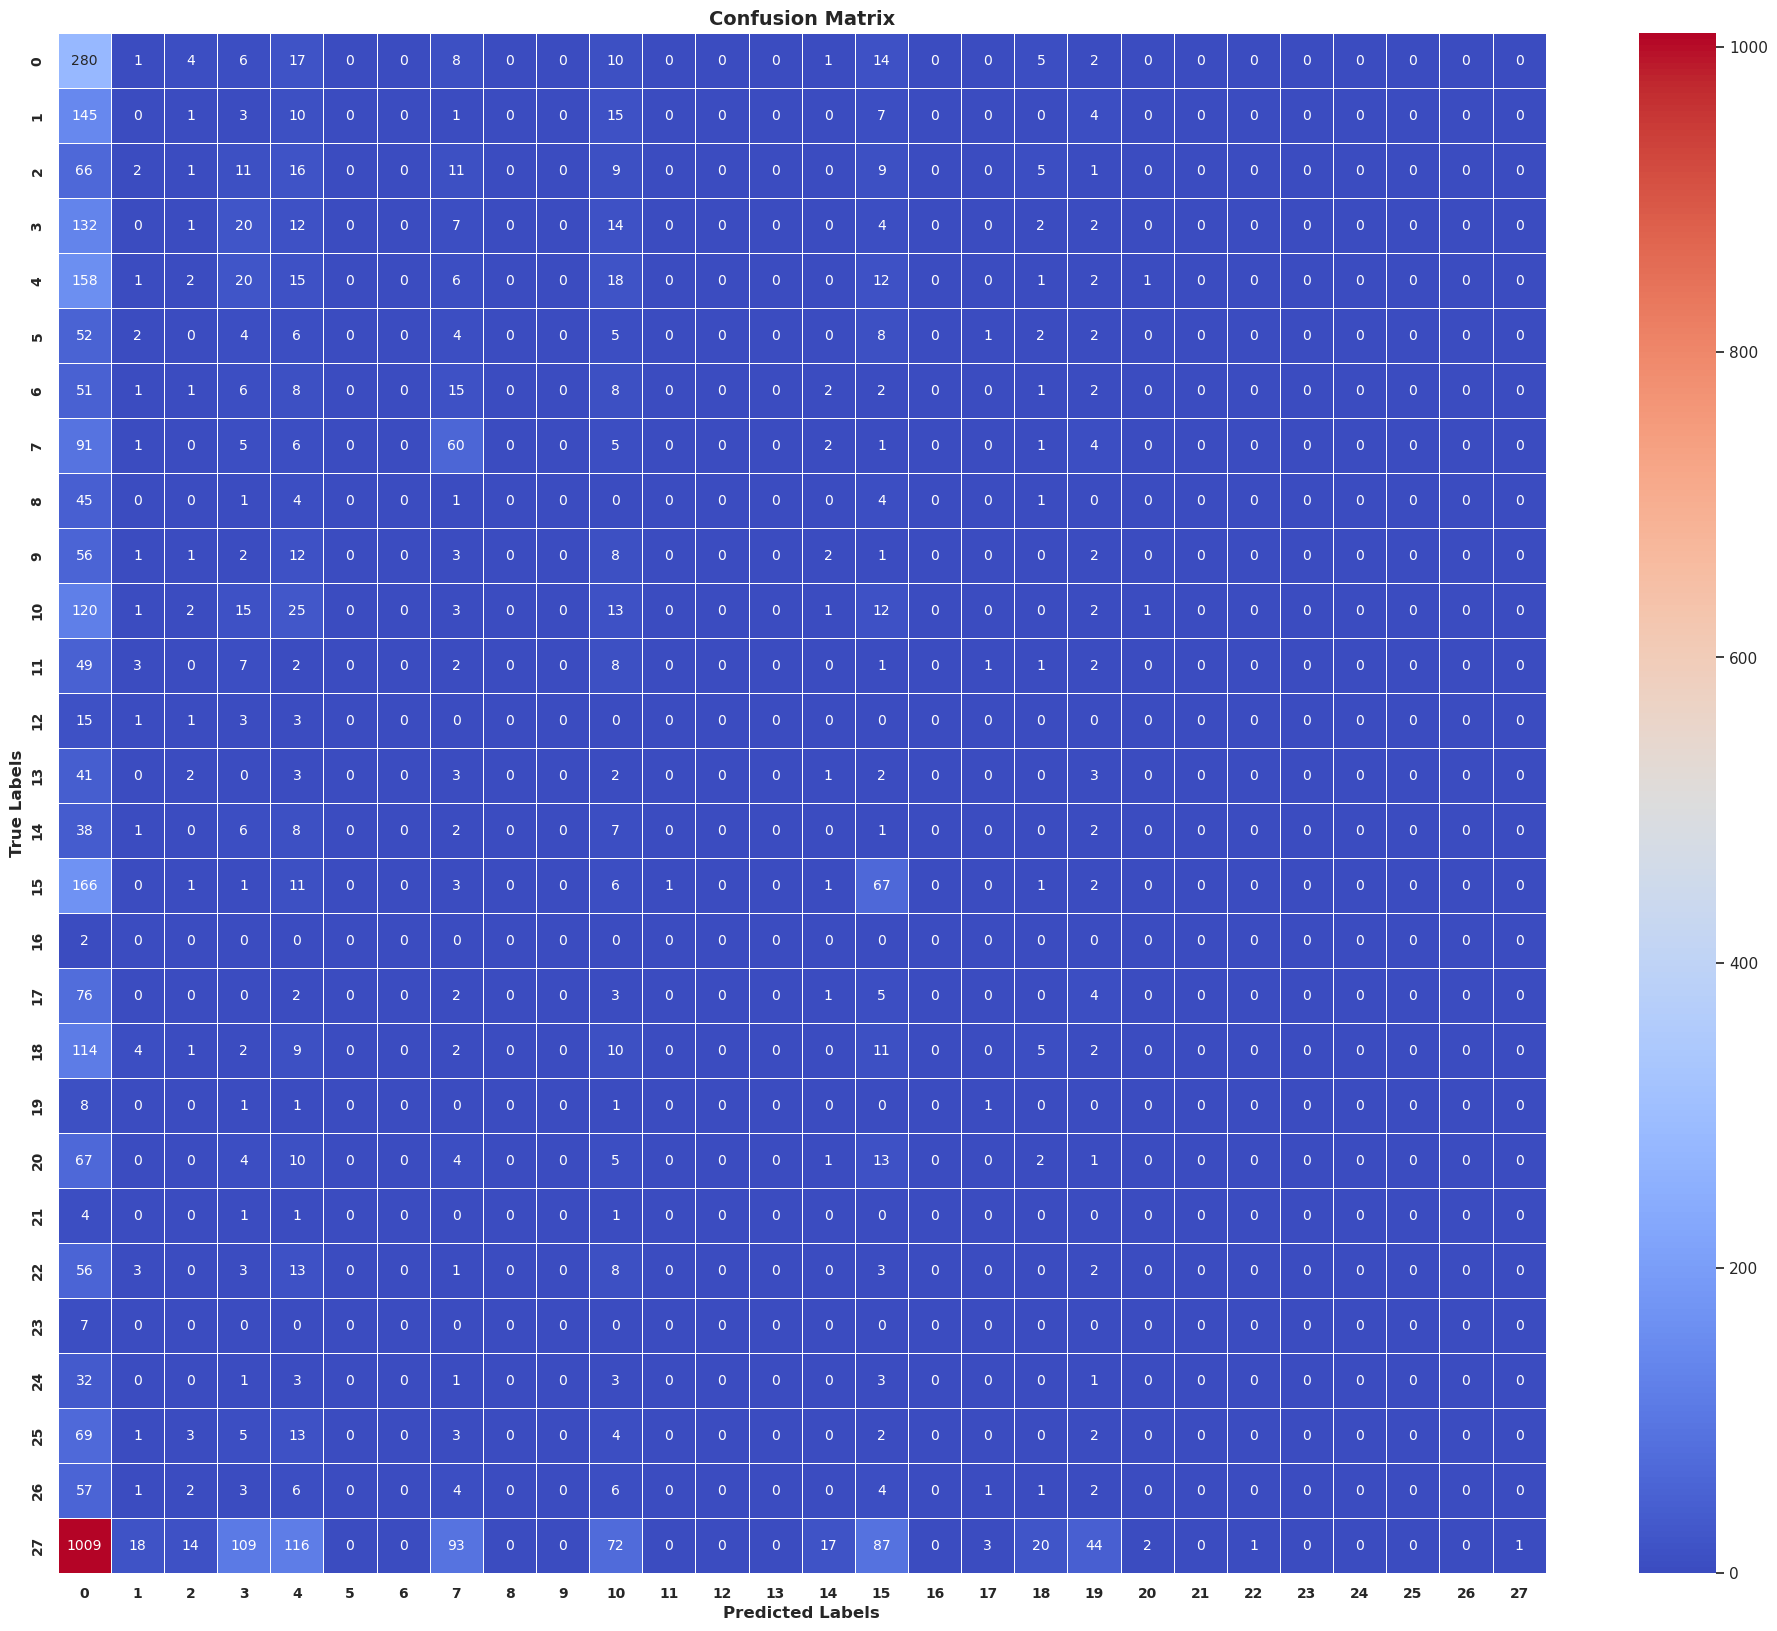
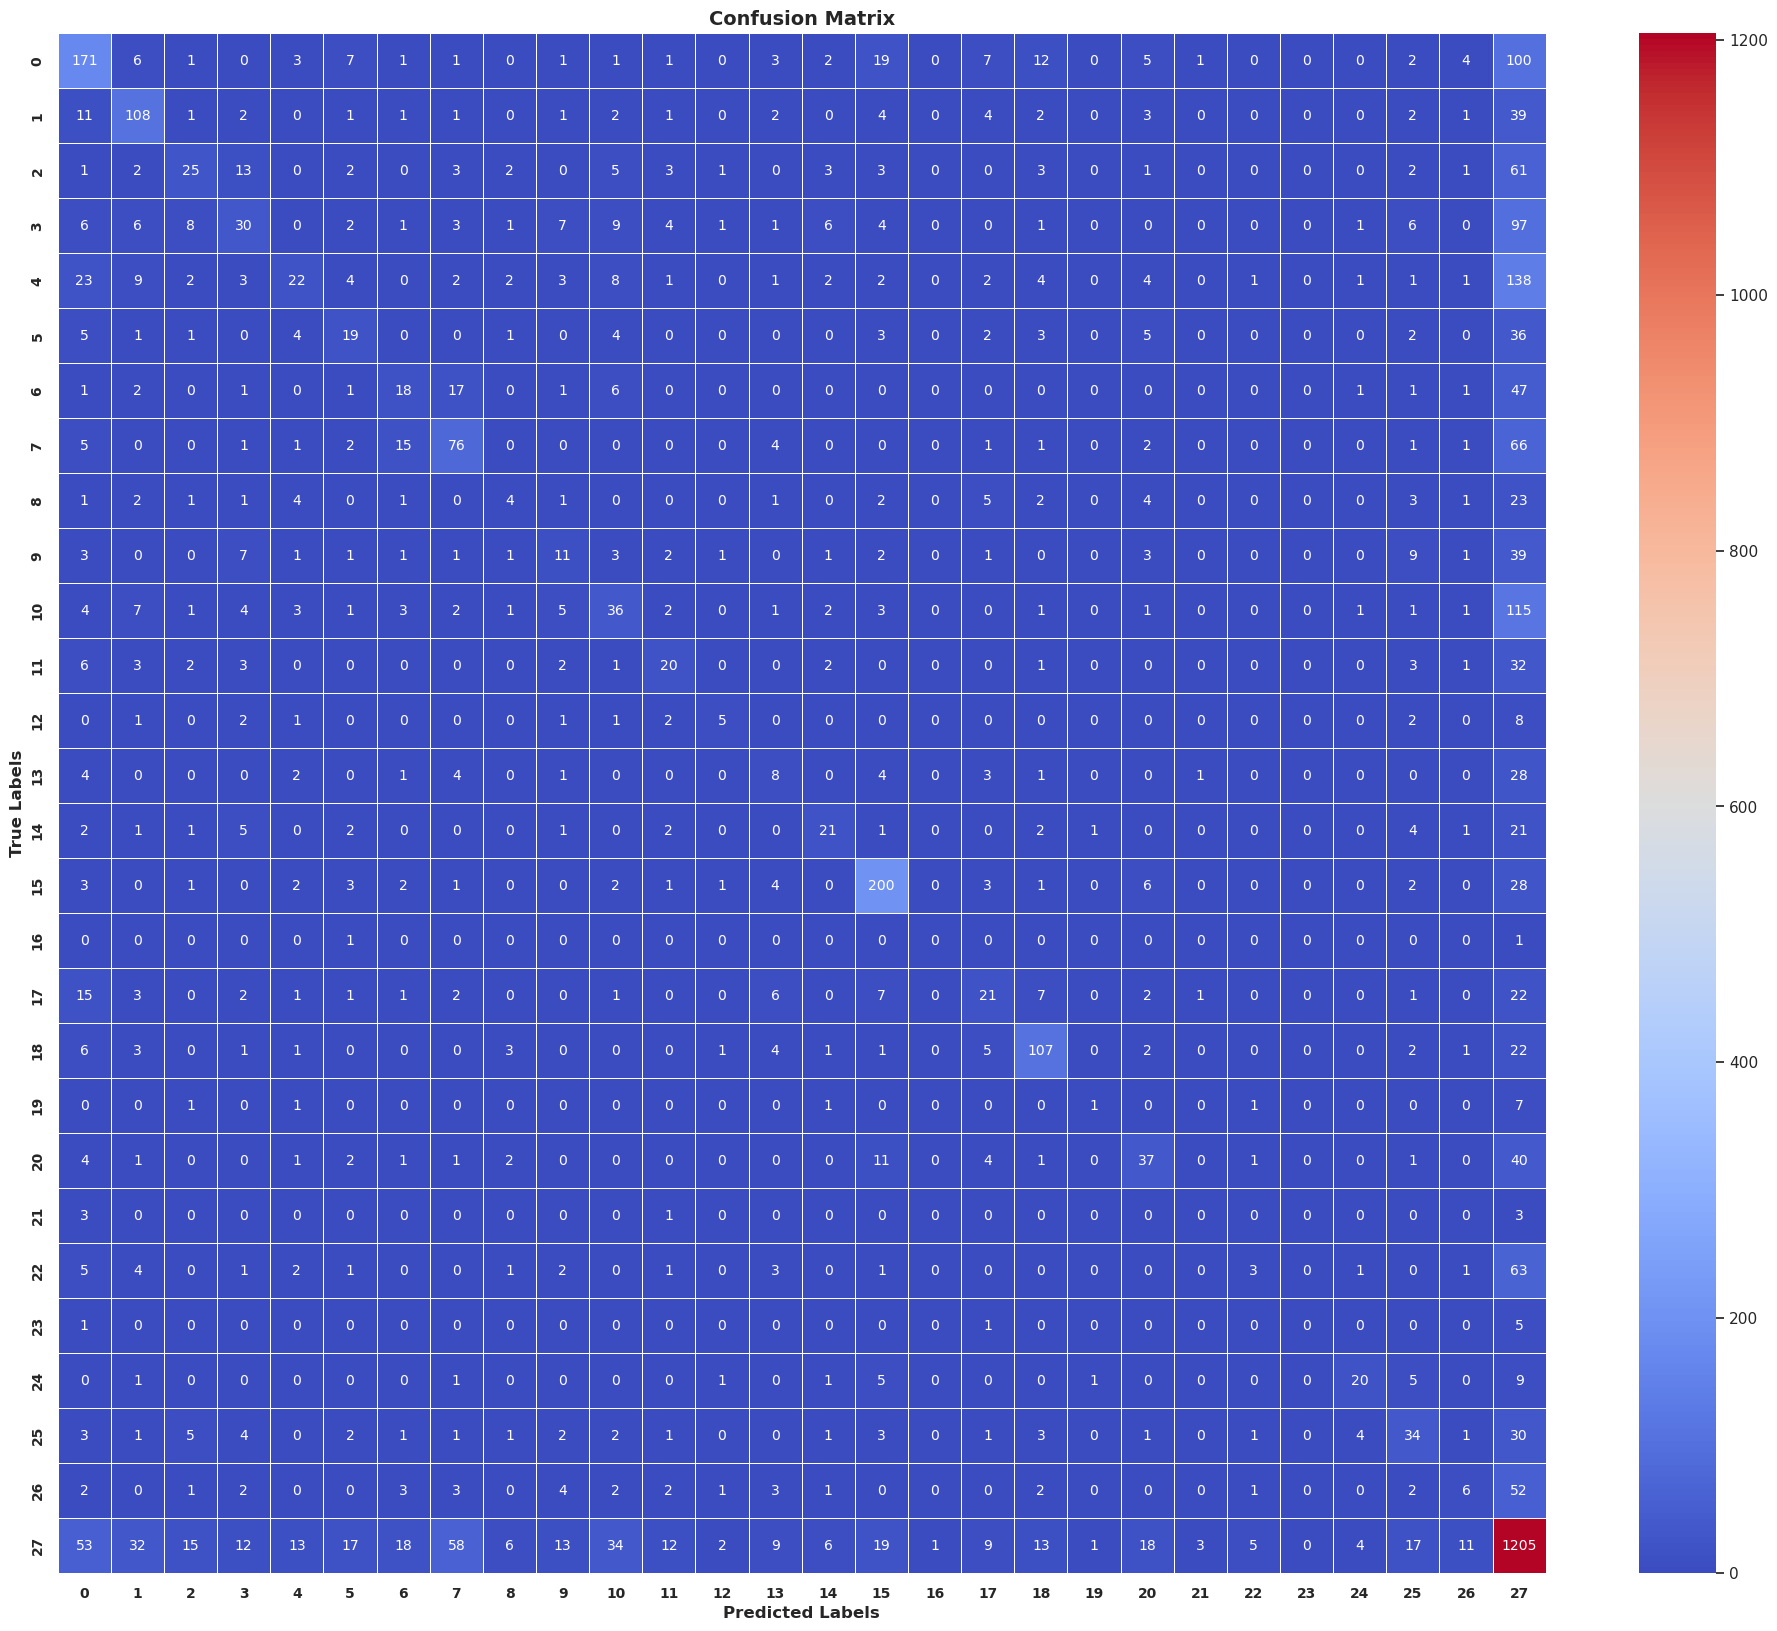
Using Trainer

diff --git a/src/LLM.py b/src/LLM.py
@@ -1,4 +1,4 @@
-# from transformers import Trainer, TrainingArguments  # type: ignore
+from transformers import Trainer, TrainingArguments  # type: ignore
 from transformers import AutoTokenizer, AutoModel, AutoModelForSequenceClassification, AdamW  # type: ignore
 from datasets import load_dataset, concatenate_datasets  # type: ignore
 import torch  # type: ignore
@@ -22,82 +22,61 @@ def freeze_model_except_last_layer(model):
     return model
 
 
-def train_model(
+def train_model_trainer(
     model,
     train_dataset,
-    num_train_epochs=1,
-    per_device_train_batch_size=32,
+    eval_dataset,
+    output_dir="./Output",
+    num_train_epochs=3,
+    per_device_train_batch_size=16,
     learning_rate=5e-5,
 ):
     """
-    Train the model with the given dataset and training arguments.
+    Train the model with the given dataset and training arguments using the Trainer API.
 
-    Args:
+        train_dataset (Dataset): The training dataset.
+        eval_dataset (Dataset): The evaluation dataset.
+        output_dir (str): The directory to save the model and training outputs.
         model (PreTrainedModel): The model to train.
         train_dataset (Dataset): The training dataset.
-        stop_threshold (float): The threshold for early stopping based on training loss.
+        output_dir (str): The directory to save the model and training outputs.
+        num_train_epochs (int): The number of training epochs.
+        per_device_train_batch_size (int): The batch size per device during training.
+        learning_rate (float): The learning rate for the optimizer.
 
     Returns:
         PreTrainedModel: The trained model.
     """
-    train_dataloader = DataLoader(
-        train_dataset,
-        shuffle=True,
-        batch_size=per_device_train_batch_size,
-    )
 
+
+
+    training_args = TrainingArguments(
+        output_dir=output_dir,
+        eval_strategy="epoch",
+        num_train_epochs=num_train_epochs,
+        per_device_train_batch_size=per_device_train_batch_size,
+        learning_rate=learning_rate,
+        logging_dir=None,  
+    )
     model = freeze_model_except_last_layer(model)
-
-    optimizer = AdamW(model.parameters(), lr=learning_rate)
-
-    num_training_steps = num_train_epochs * len(train_dataloader)
-
-    lr_scheduler = get_scheduler(
-        name="linear",
-        optimizer=optimizer,
-        num_warmup_steps=0,  # Ensure this is an integer
-        num_training_steps=num_training_steps,
+    
+    trainer = Trainer(
+        model=model,
+        args=training_args,
+        train_dataset=train_dataset,
+        eval_dataset=eval_dataset,
     )
-    
-    # Calculate the total number of training steps
-    progress_bar = tqdm(range(num_training_steps))
-    
-    # Set the model to training mode
-    model.train()
-    # Move the model to the device
-    for epoch in range(num_train_epochs):
-        total_loss = 0
-        # Iterate over the training dataloader
-        for batch in train_dataloader:
 
-            # Move the batch to the device
-            batch = {key: value.to(model.device) for key, value in batch.items()}
-
-            ### Forward pass, backward pass, and optimization ###
-            outputs = model(**batch)  # Forward pass
-            loss = outputs.loss  # Compute the loss
-            loss.backward()  # Backward pass
-
-            optimizer.step()  # Update the model parameters
-            lr_scheduler.step()  # Update the learning rate
-            optimizer.zero_grad()  # Reset the gradients
-
-            ### Update the progress bar ###
-            total_loss += loss.item()  # Accumulate the total loss
-            progress_bar.set_postfix(
-                {
-                    "loss": loss.item(),
-                    "epoch": epoch + 1,
-                }
-            )
-            progress_bar.update(1)  # Update the progress bar
+    trainer.train()
 
     return model
 
 
-def predict(model, dataset, batch_size=32):
+def predict_trainer(
+    model, dataset, batch_size=16, output_dir="./Output"
+):
     """
-    Make predictions using the model on the given dataset.
+    Make predictions using the model on the given dataset using the Trainer API.
 
     Args:
         model (PreTrainedModel): The trained model.
@@ -107,114 +86,17 @@ def predict(model, dataset, batch_size=32):
     Returns:
         list: A list of predictions.
     """
-    dataloader = DataLoader(dataset, batch_size=batch_size)
-    model.eval()  # Set the model to evaluation mode
-    predictions = []  # Initialize an empty list to store the predictions
 
-    progress_bar = tqdm(
-        total=len(dataloader), desc="Predicting"
-    )  # Initialize a progress bar
+    training_args = TrainingArguments(
+        output_dir=output_dir,
+        per_device_eval_batch_size=batch_size,
+        logging_dir=None,  
+    )
 
-    ### Iterate over the dataloader ###
-    for batch in dataloader:
-        # Move the batch to the device
-        batch = {key: value.to(model.device) for key, value in batch.items()}
+    trainer = Trainer(
+        model=model,
+        args=training_args,
+    )
 
-        with torch.no_grad():  # Disable gradient tracking
-            outputs = model(**batch)  # Forward pass
-        logits = outputs.logits  # Get the logits
-        # Compute the predicted labels
-        batch_predictions = torch.argmax(logits, dim=-1).cpu().numpy()
-        predictions.extend(batch_predictions)
-        progress_bar.update(1)
-    progress_bar.close()
-    return predictions
-
-
-# class CustomTrainingArguments(TrainingArguments):
-#     @property
-#     def _setup_devices(self):
-#         # Override the device setup to avoid using accelerate
-#         if torch.cuda.is_available():
-#             return torch.device("cuda")
-#         else:
-#             return torch.device("cpu")
-
-
-# def train_model_trainer(
-#     model,
-#     train_dataset,
-#     eval_dataset,
-#     output_dir="../Results-Distilled-GPT2",
-#     num_train_epochs=1,
-#     per_device_train_batch_size=32,
-#     learning_rate=5e-5,
-# ):
-#     """
-#     Train the model with the given dataset and training arguments using the Trainer API.
-
-#         train_dataset (Dataset): The training dataset.
-#         eval_dataset (Dataset): The evaluation dataset.
-#         output_dir (str): The directory to save the model and training outputs.
-#         model (PreTrainedModel): The model to train.
-#         train_dataset (Dataset): The training dataset.
-#         output_dir (str): The directory to save the model and training outputs.
-#         num_train_epochs (int): The number of training epochs.
-#         per_device_train_batch_size (int): The batch size per device during training.
-#         learning_rate (float): The learning rate for the optimizer.
-
-#     Returns:
-#         PreTrainedModel: The trained model.
-#     """
-
-#     device = torch.device("cuda" if torch.cuda.is_available() else "cpu")
-#     model.to(device)
-
-#     training_args = CustomTrainingArguments(
-#         output_dir=output_dir,
-#         eval_strategy="epoch",
-#         num_train_epochs=num_train_epochs,
-#         per_device_train_batch_size=per_device_train_batch_size,
-#         learning_rate=learning_rate,
-#     )
-
-#     trainer = Trainer(
-#         model=model,
-#         args=training_args,
-#         train_dataset=train_dataset,
-#     )
-
-#     trainer.train()
-
-#     return model
-
-
-# def predict_trainer(
-#     model, dataset, batch_size=32, output_dir="../Results-Distilled-GPT2"
-# ):
-#     """
-#     Make predictions using the model on the given dataset using the Trainer API.
-
-#     Args:
-#         model (PreTrainedModel): The trained model.
-#         dataset (Dataset): The dataset to make predictions on.
-#         batch_size (int): The batch size for the DataLoader.
-
-#     Returns:
-#         list: A list of predictions.
-#     """
-#     device = torch.device("cuda" if torch.cuda.is_available() else "cpu")
-#     model.to(device)
-
-#     training_args = CustomTrainingArguments(
-#         output_dir=output_dir,
-#         per_device_eval_batch_size=batch_size,
-#     )
-
-#     trainer = Trainer(
-#         model=model,
-#         args=training_args,
-#     )
-
-#     predictions = trainer.predict(dataset)
-#     return predictions.predictions.argmax(axis=-1)
+    predictions = trainer.predict(dataset)
+    return predictions.predictions.argmax(axis=-1)

diff --git a/src/Distilled-GPT2/PrepareDataset.py b/src/Distilled-GPT2/PrepareDataset.py
@@ -14,10 +14,8 @@ from Utils import (
     format_datasets_for_pytorch,
 )
 from LLM import (
-    # train_model_trainer,
-    # predict_trainer,
-    train_model,
-    predict,
+    train_model_trainer,
+    predict_trainer,
 )
 
 
@@ -65,18 +63,19 @@ if __name__ == "__main__":
         train_dataset, eval_dataset, test_dataset, saving_path=SAVING_PATH
     )
 
-    trained_model = train_model(model, train_dataset)
-
-    prediction = predict(trained_model, test_dataset, batch_size=32)
+    untrainded_model_prediction =  predict_trainer(model, test_dataset, batch_size=32)
     
-    untrainded_model_prediction =  predict(model, test_dataset, batch_size=32)
-    # prediction_train = predict(trained_model, train_dataset, batch_size=32)
+    trained_model = train_model_trainer(model, train_dataset,eval_dataset=eval_dataset, learning_rate=0.01)
+    
+    prediction = predict_trainer(trained_model, test_dataset, batch_size=32)
+    
+    prediction_train = predict_trainer(trained_model, train_dataset, batch_size=32)
     
     labels_test = test_dataset["labels"]
     labels_train = train_dataset["labels"]
 
     compute_accuracy(prediction, labels_test, "test")
-    # compute_accuracy(prediction_train, labels_train, "train")
+    compute_accuracy(prediction_train, labels_train, "train")
     compute_accuracy(untrainded_model_prediction, labels_test, "untrained")
 
     plot_confusion_matrix(prediction, labels_test, saving_path=SAVING_PATH)

diff --git a/src/PlotHelper.py b/src/PlotHelper.py
@@ -18,15 +18,10 @@ def plot_distribution_of_datasets(train_dataset, eval_dataset, test_dataset, sav
     eval_dataset_labels = eval_dataset["labels"]
     test_dataset_labels = test_dataset["labels"]
     
-    # plt.hist(train_dataset_labels, bins=30, alpha=0.5, label="Train", color="skyblue")
-    # plt.hist(eval_dataset_labels, bins=30, alpha=0.5, label="Eval", color="lightgreen")
-    # plt.hist(test_dataset_labels, bins=30, alpha=0.5, label="Test", color="lightcoral")
-    width = 0.3
-    x = range(len(set(train_dataset_labels)))
-    plt.bar([p - width for p in x], [train_dataset_labels.count(i) for i in x], width=width, alpha=0.5, label="Train", color="skyblue")
-    plt.bar(x, [eval_dataset_labels.count(i) for i in x], width=width, alpha=0.5, label="Eval", color="lightgreen")
-    plt.bar([p + width for p in x], [test_dataset_labels.count(i) for i in x], width=width, alpha=0.5, label="Test", color="lightcoral")
-
+    plt.hist(train_dataset_labels, bins=30, alpha=0.5, label="Train", color="skyblue")
+    plt.hist(eval_dataset_labels, bins=30, alpha=0.5, label="Eval", color="lightgreen")
+    plt.hist(test_dataset_labels, bins=30, alpha=0.5, label="Test", color="lightcoral")
+    
 
     plt.xticks(range(28))
     plt.xlabel("Classes", fontsize=12, weight="bold")

diff --git a/src/Utils.py b/src/Utils.py
@@ -45,7 +45,7 @@ def get_single_label_dataset():
     ds_validation = ds_validation.filter(filter_single_label)
     ds_test = ds_test.filter(filter_single_label)
 
-    ds_train = undersample_features(ds_train)
+    #ds_train = undersample_features(ds_train)
 
     return ds_train, ds_validation, ds_test
 
